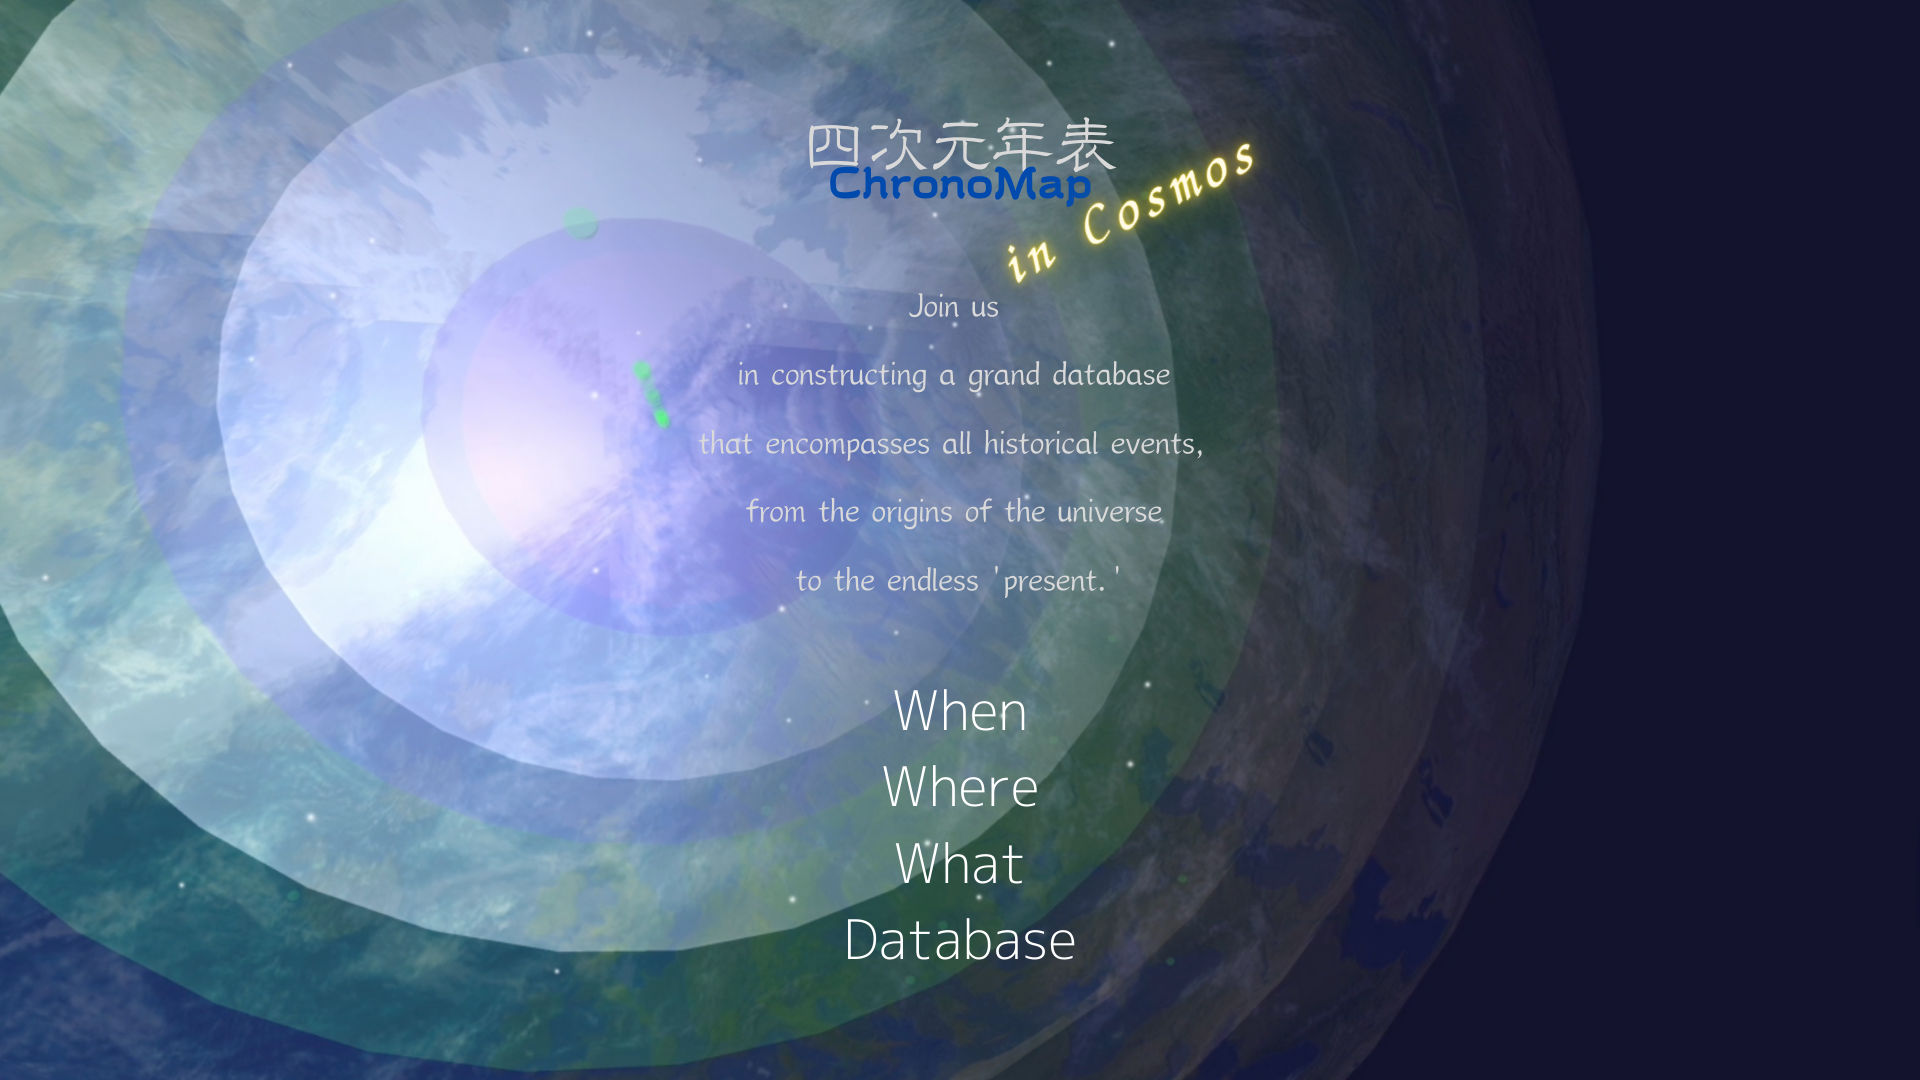
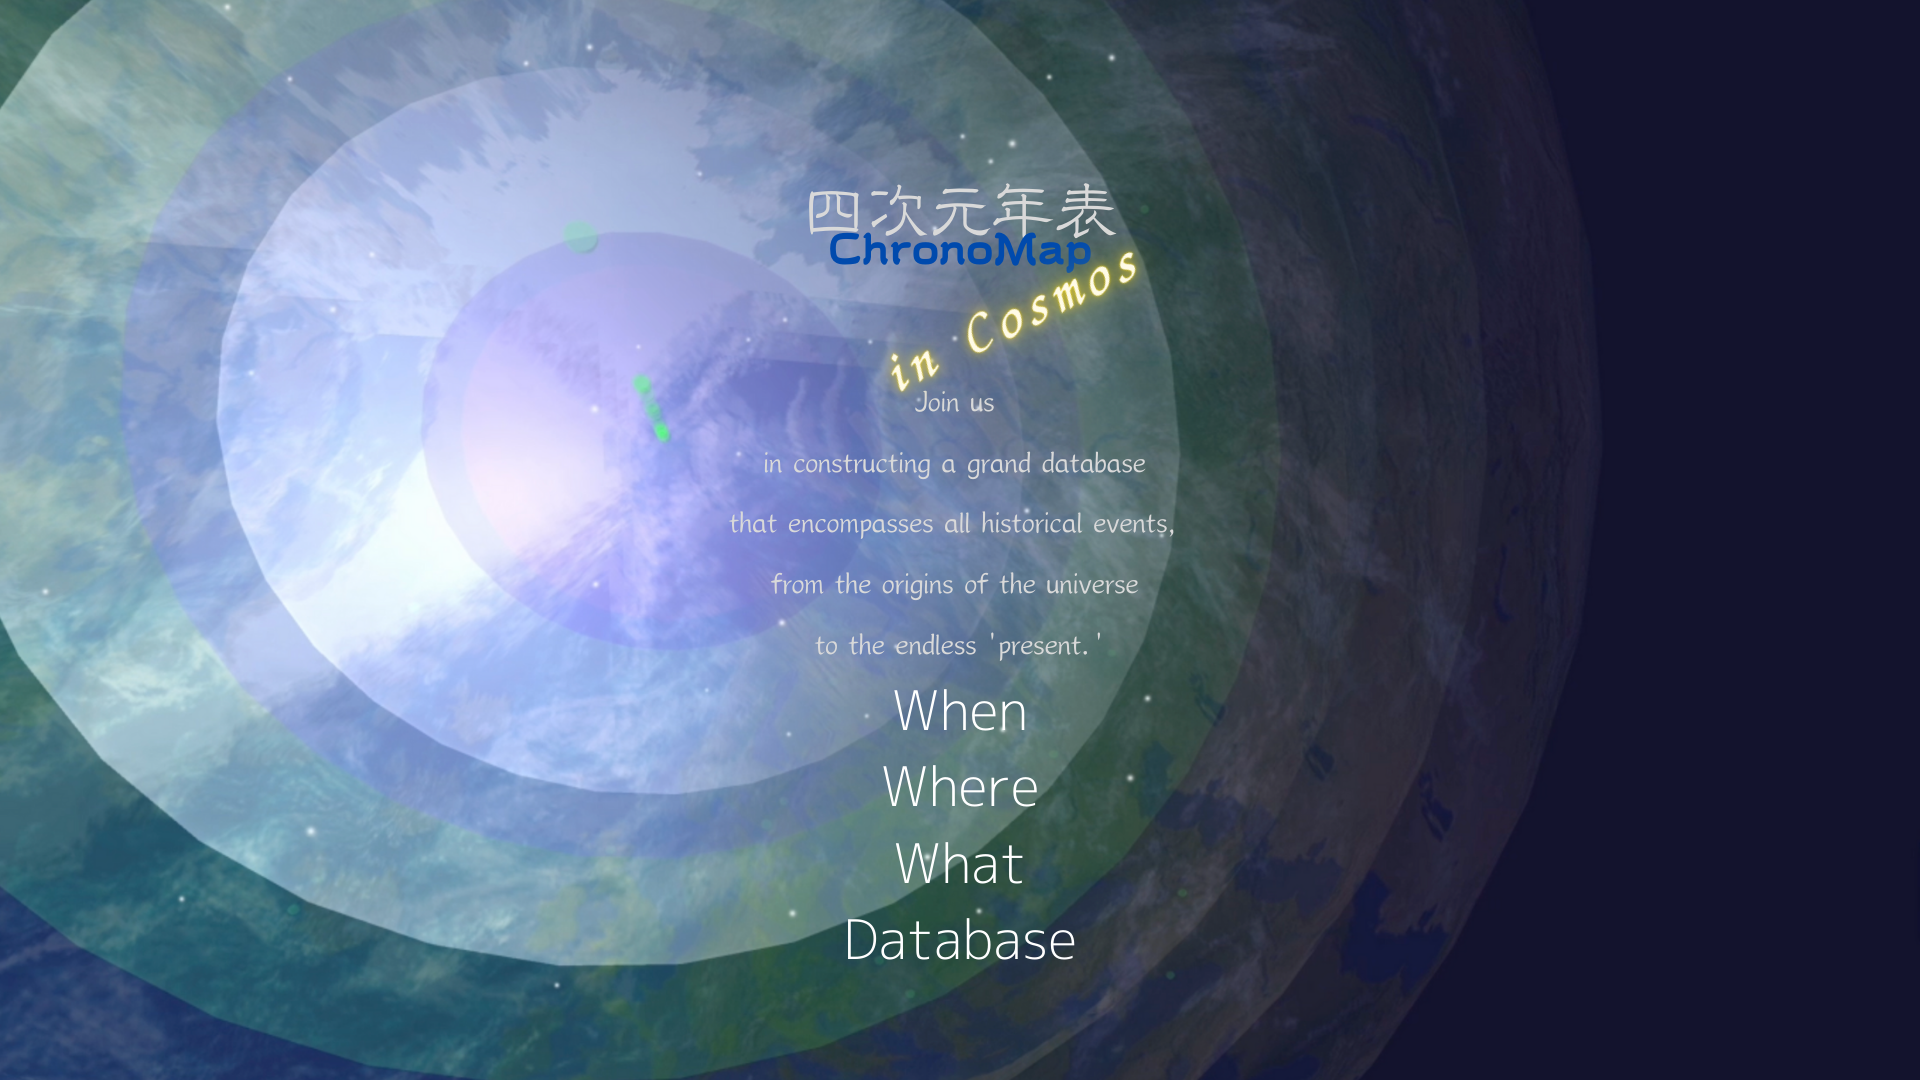
縦位置対応

diff --git a/lib/hints/info_page.dart b/lib/hints/info_page.dart
@@ -28,21 +28,16 @@ class InfoPage extends StatelessWidget {
                     child: CustomTextContainer(
                         textContent: AppLocalizations.of(context)!.infoA),
                   ),
-                  Row(
-                    mainAxisAlignment: MainAxisAlignment.center,
-                    children: [
-                      LaunchUrlContainer(
-                        textContent: AppLocalizations.of(context)!.infoB,
-                        url: 'https://app.laporte.academy',
-                      ),
-                      LaunchUrlContainer(
-                          textContent: AppLocalizations.of(context)!.infoC,
-                          url: 'https://tempo-spaco.web.app'),
-                      LaunchUrlContainer(
-                          textContent: AppLocalizations.of(context)!.infoD,
-                          url: 'https://www.youtube.com/@laporte_academy')
-                    ],
+                  LaunchUrlContainer(
+                    textContent: AppLocalizations.of(context)!.infoB,
+                    url: 'https://app.laporte.academy',
                   ),
+                  LaunchUrlContainer(
+                      textContent: AppLocalizations.of(context)!.infoC,
+                      url: 'https://tempo-spaco.web.app'),
+                  LaunchUrlContainer(
+                      textContent: AppLocalizations.of(context)!.infoD,
+                      url: 'https://www.youtube.com/@laporte_academy'),
                   CustomTextContainer(
                       textContent: AppLocalizations.of(context)!.infoE),
                   CustomTextContainer(

diff --git a/lib/main.dart b/lib/main.dart
@@ -1,3 +1,4 @@
+import 'package:chronomap_in_cosmos/utils/theme.dart';
 import 'package:flutter/material.dart';
 import 'package:flutter/services.dart';
 import 'package:google_fonts/google_fonts.dart';
@@ -64,10 +65,10 @@ class _MyAppState extends State<MyApp> {
         debugShowCheckedModeBanner: false,
         title: 'Chronomap in Space',
         theme: ThemeData(
-
           textTheme: GoogleFonts.tsukimiRoundedTextTheme(
               Theme.of(context).textTheme
           ),
+          appBarTheme: SpaceTheme.appBarTheme,
 
           colorScheme: ColorScheme.fromSeed(seedColor: Colors.deepPurple),
           useMaterial3: true,

diff --git a/lib/cover.dart b/lib/cover.dart
@@ -34,7 +34,7 @@ class CoverPageState extends State<CoverPage> {
         child: Column(
           children: [
             Padding(
-              padding: const EdgeInsets.all(30.0),
+              padding: const EdgeInsets.fromLTRB(30, 50, 30, 30),
               child: ShadowedContainer(
                 child: Row(
                   mainAxisAlignment: MainAxisAlignment.center,

diff --git a/lib/utils/theme.dart b/lib/utils/theme.dart
@@ -22,4 +22,7 @@ class SpaceTheme {
     bodySmall: GoogleFonts.hinaMincho(
         fontSize: 20, fontWeight: FontWeight.normal, color: Colors.black54),//black
   );
+  static AppBarTheme appBarTheme = const AppBarTheme(
+    backgroundColor: Color(0x4D00533f),
+  );
 }
